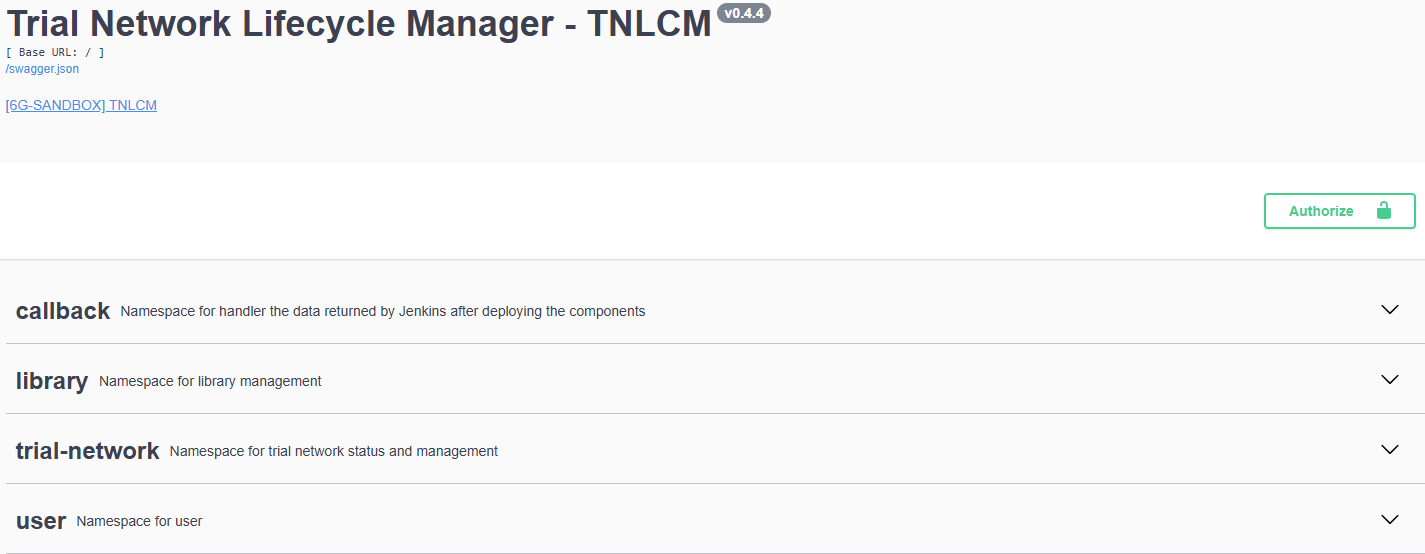
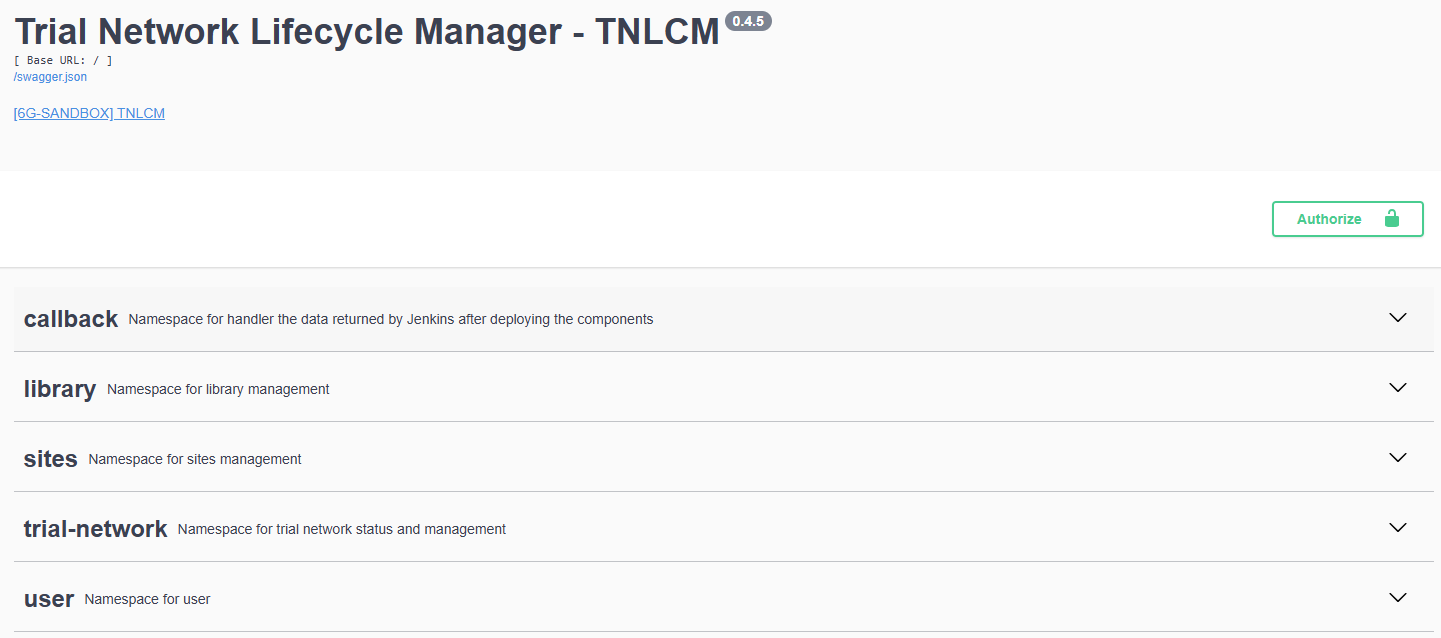
fix: api endpoints

diff --git a/docs/tnlcm/swagger-ui.md b/docs/tnlcm/swagger-ui.md
@@ -46,7 +46,8 @@ Fill in the following fields:
 - `tn_id`: must start with a character and be at least 4 characters long. This field can be left blank, in which case a random value will be generated.
 - `library_reference_type`: you can specify a branch, tag, or commit of the 6G-Library repository.
 - `library_reference_value`: value corresponding to the type specified in the `library_reference_type` field.
-- `deployment_site`: must be one of the branches available in the [6G-Sandbox-Sites](https://github.com/6G-SANDBOX/6G-Sandbox-Sites) repository.
+- `sites_branch`: must be one of the branches available in the [6G-Sandbox-Sites](https://github.com/6G-SANDBOX/6G-Sandbox-Sites) repository.
+- `deployment_site`: must be one directory of the `sites_branch` specified.
 - `descriptor`: descriptor file containing the definition of the trial network. To create a descriptor file, refer to the [Trial Network Descriptor Schema](./descriptor-schema.md) section.
 
 ## Deploy trial network
